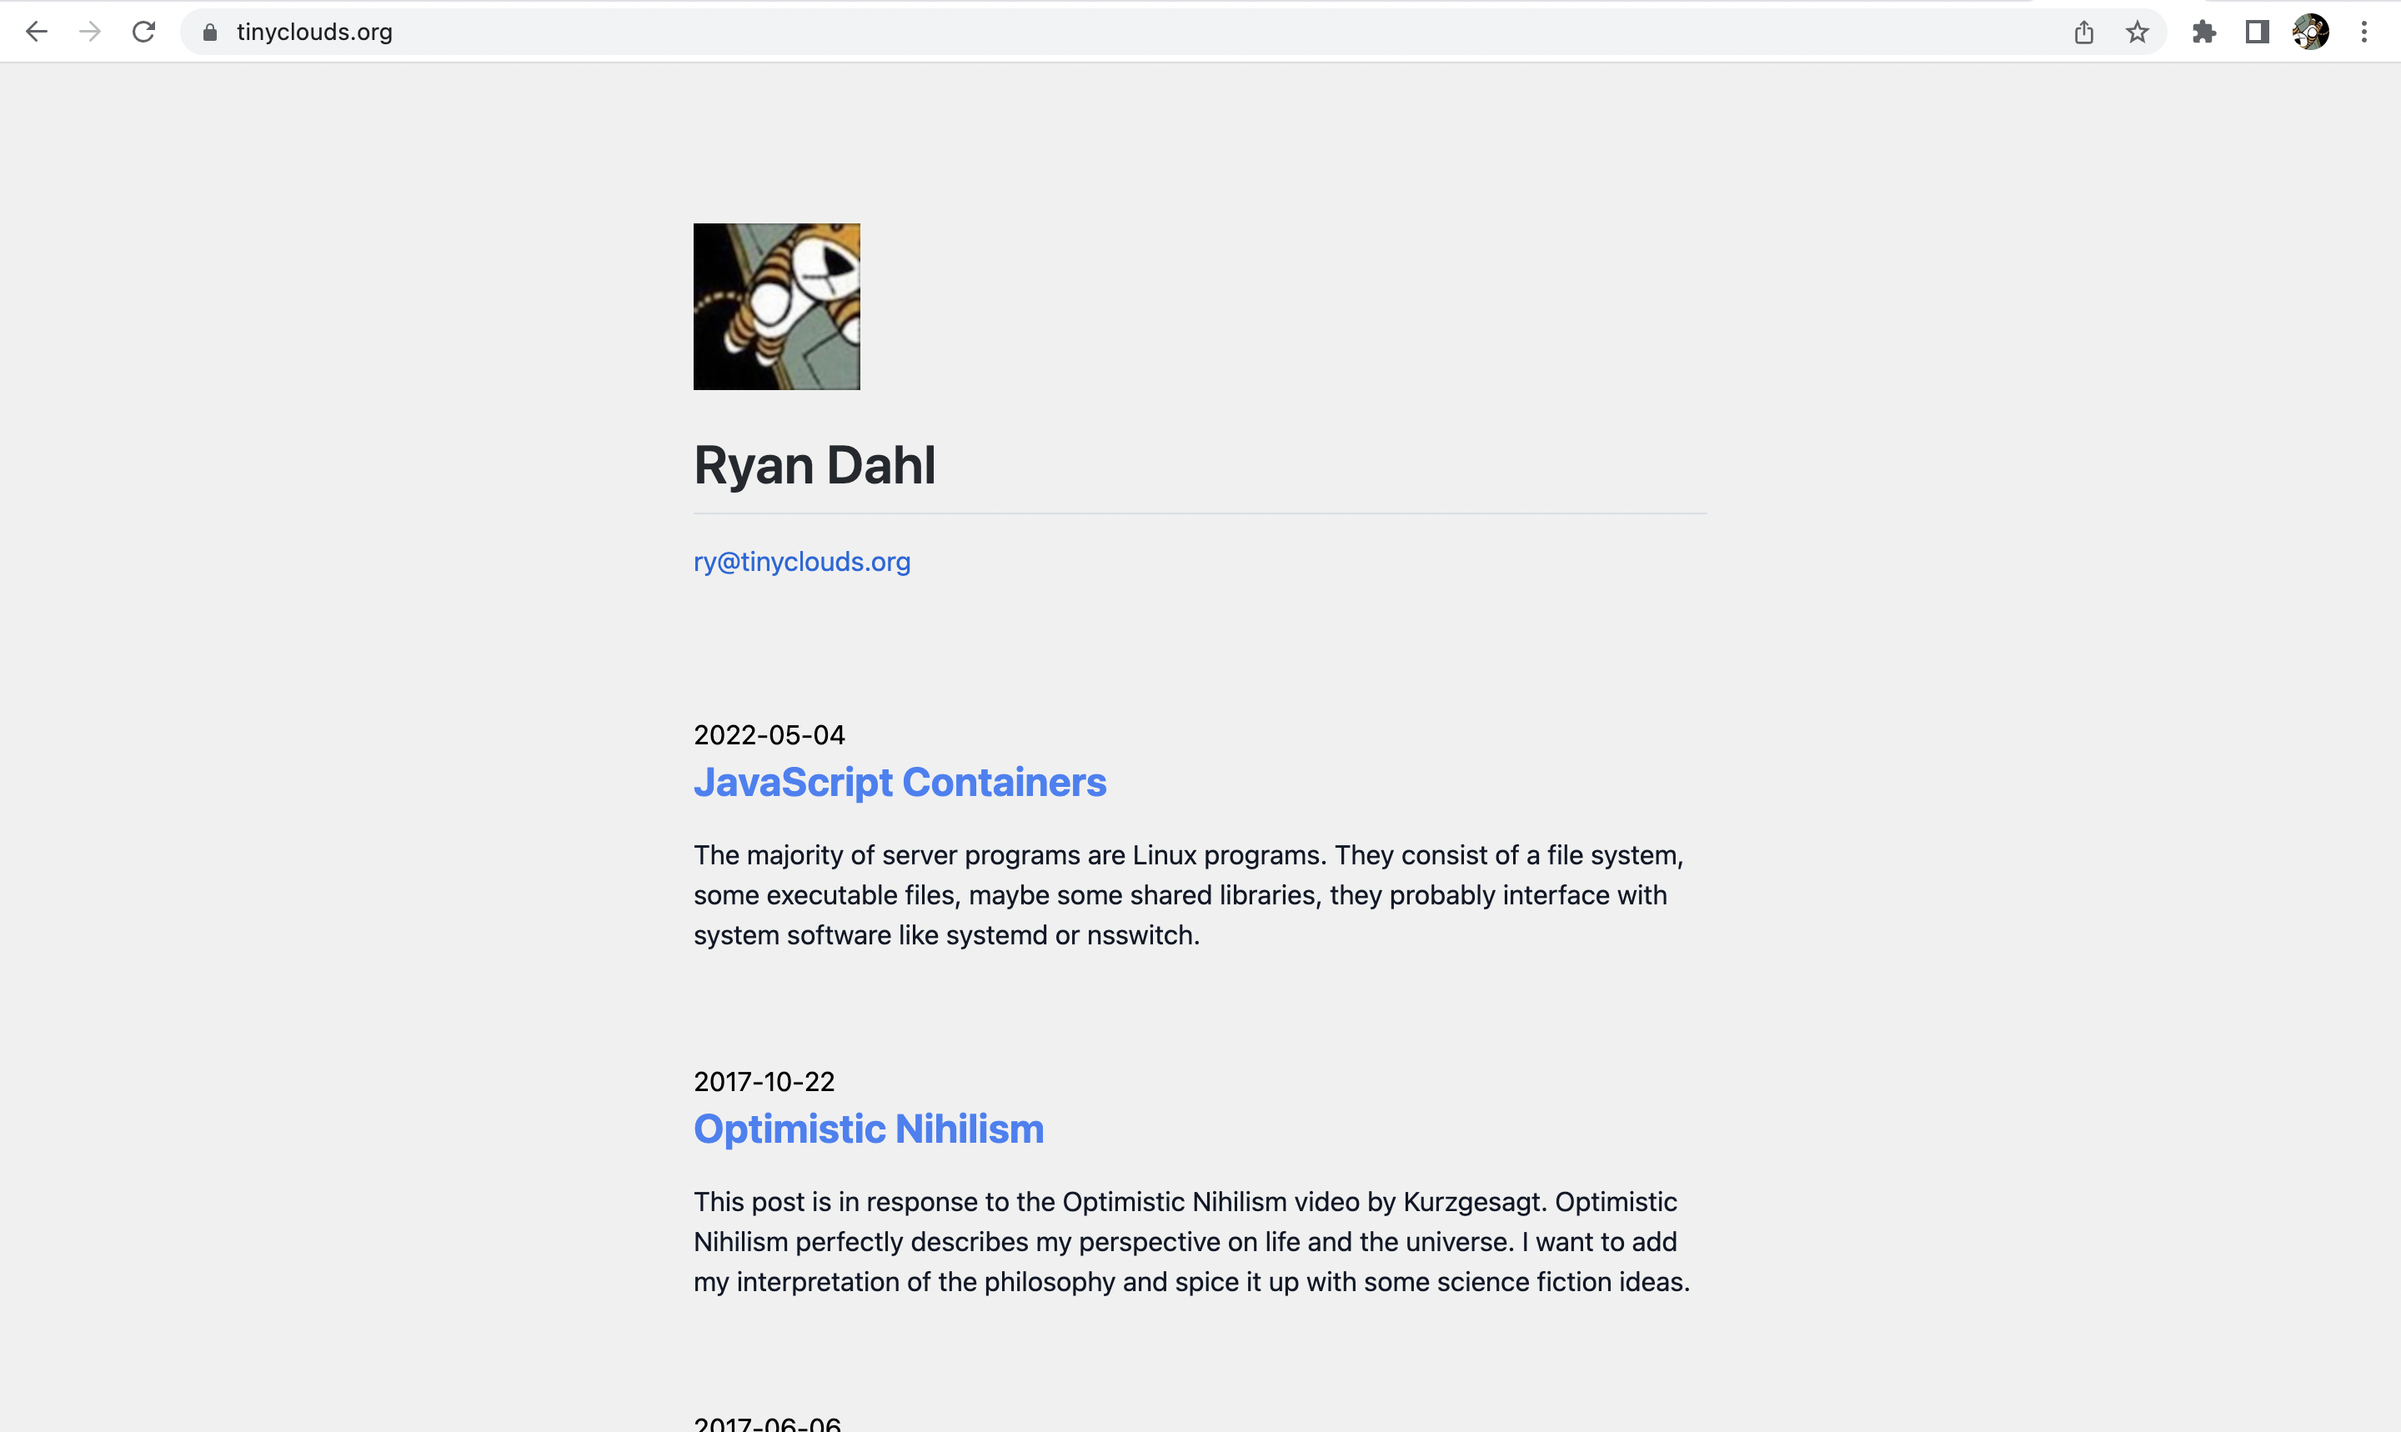
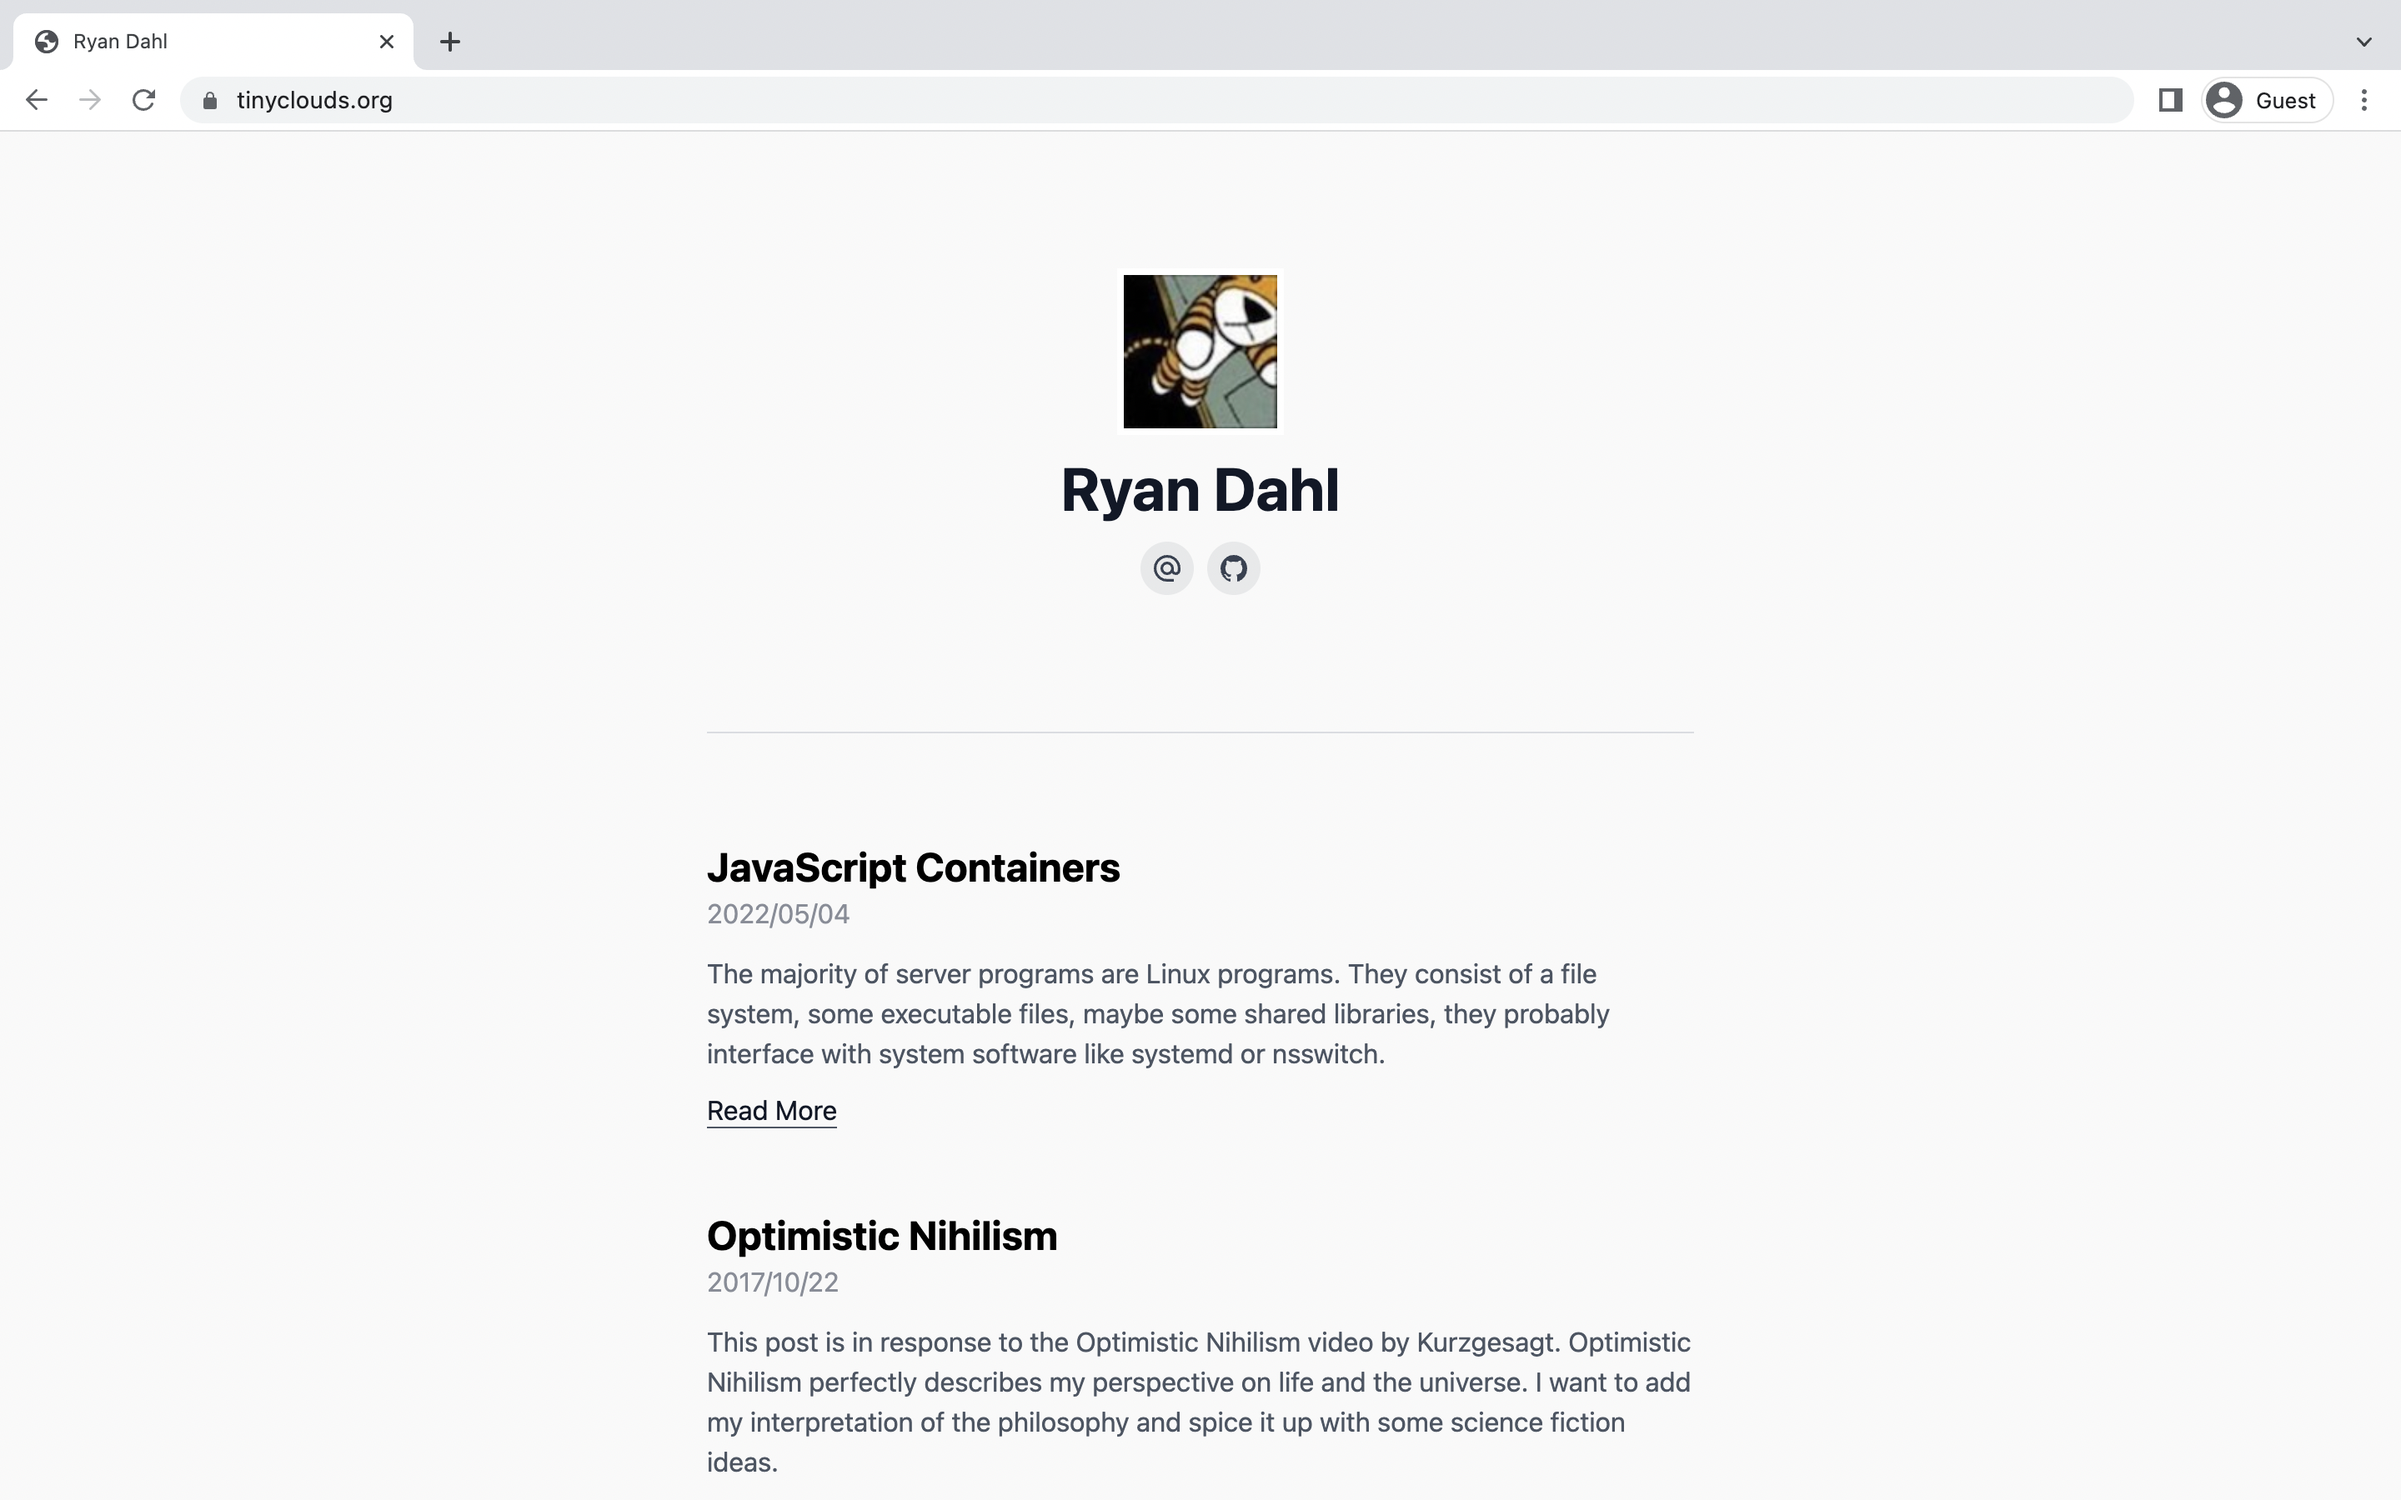
improve readme

diff --git a/main.js b/main.js
@@ -8,7 +8,6 @@ blog({
   links: [
     { title: "Email", url: "mailto:ry@tinyclouds.org" },
     { title: "GitHub", url: "https://github.com/ry" },
-    { title: "LinkedIn", url: "https://www.linkedin.com/in/tinyclouds/" },
   ],
   background: "#f9f9f9",
   middlewares: [

diff --git a/.github/README.md b/.github/README.md
@@ -2,6 +2,8 @@
 
 # Ryan's Blog
 
+Deployments in less than 10 seconds.
+
 To get it running:
 
 ```sh
@@ -12,3 +14,5 @@ deno task dev
 
 To deploy it to Deno Deploy - clone it in a github repo and create and link a
 new project on https://dash.deno.com.
+
+Built using [deno_blog](https://github.com/denoland/deno_blog).
